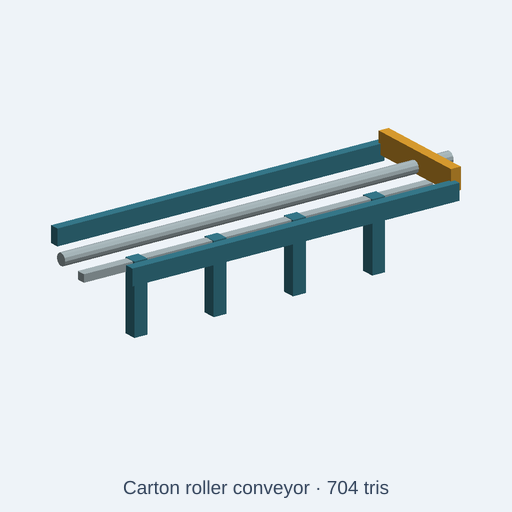
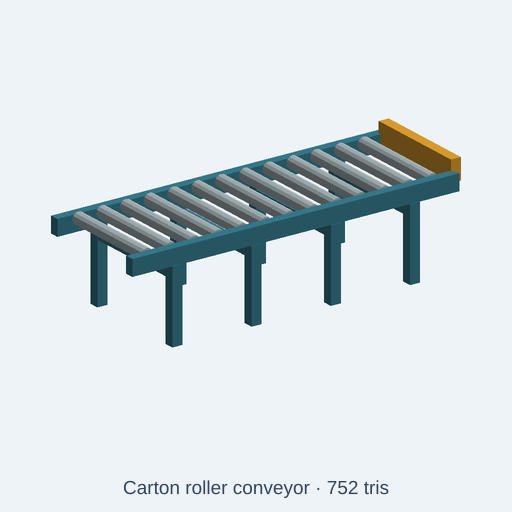
fix(catalog): run the carton conveyor rollers across the frame
The 13 rollers and 4 crossbars of beverage-bottling-line/carton-roller-conveyor
ran along X at y=0, so the preview showed two long rods, not a roller bed.
The legs stood in one centre row. The crossbars matched no finish rule and
fell through to stainless, but the side frames and legs they tie together
are powder-coated.

Rollers now span Y between the side frames (495 mm, 120 mm pitch). The
crossbars span Y under the frames and take the powder-coat finish. Eight
legs stand under the two side frames. The new test fails on the old source
(roller extent X 520 mm, Y 60 mm) and passes on the fix.

Changed region(s): [[0.0938, 0.2188, 0.9062, 0.6875], [0.6562, 0.9375, 0.7188, 0.9688]]

diff --git a/catalog/kits/beverage-bottling-line/carton-roller-conveyor.kcad.ts b/catalog/kits/beverage-bottling-line/carton-roller-conveyor.kcad.ts
@@ -32,38 +32,43 @@ presets({
   },
 });
 const boxPart = (x:number,y:number,z:number,w:number,d:number,h:number) => box(w,d,h,true).translate(x,y,z+h/2).scale(scale);
-const xCylinderPart = (x:number,y:number,z:number,length:number,r:number,n=10) => cylinder(length,r,n).rotateY(90).translate(x-length/2,y,z).scale(scale);
+// Rollers span the conveyor width (Y) between the two side frames; cartons travel along X.
+const yCylinderPart = (x:number,y:number,z:number,length:number,r:number,n=10) => cylinder(length,r,n).rotateX(-90).translate(x,y-length/2,z).scale(scale);
 
 const p = assembly("carton-roller-conveyor");
 const finishPart = (name: string, shape: ReturnType<typeof boxPart>) => {
   const component = name.toLowerCase();
   if (/operator|stop|emergency|beacon|signal|status|warning|access/i.test(component)) return shape.color(safetyPaint);
-  if (/base|leg|foot|frame|support|stand|control|housing|cabinet|motor|drive|beam|panel|hood|skid|mount|platform|guard|rail|post|lift|jacket/i.test(component)) return shape.color(powderCoat);
+  if (/base|leg|foot|frame|support|stand|control|housing|cabinet|motor|drive|beam|panel|hood|skid|mount|platform|guard|rail|post|lift|jacket|crossbar/i.test(component)) return shape.color(powderCoat);
   return shape.color(stainlessSteel);
 };
 p.part("side-frame-front", finishPart("side-frame-front", boxPart(0, -270, 360, 1650, 45, 80)));
 p.part("side-frame-back", finishPart("side-frame-back", boxPart(0, 270, 360, 1650, 45, 80)));
-p.part("roller-0", finishPart("roller-0", xCylinderPart(-720, 0, 420, 520, 30, 8)));
-p.part("roller-1", finishPart("roller-1", xCylinderPart(-600, 0, 420, 520, 30, 8)));
-p.part("roller-2", finishPart("roller-2", xCylinderPart(-480, 0, 420, 520, 30, 8)));
-p.part("roller-3", finishPart("roller-3", xCylinderPart(-360, 0, 420, 520, 30, 8)));
-p.part("roller-4", finishPart("roller-4", xCylinderPart(-240, 0, 420, 520, 30, 8)));
-p.part("roller-5", finishPart("roller-5", xCylinderPart(-120, 0, 420, 520, 30, 8)));
-p.part("roller-6", finishPart("roller-6", xCylinderPart(0, 0, 420, 520, 30, 8)));
-p.part("roller-7", finishPart("roller-7", xCylinderPart(120, 0, 420, 520, 30, 8)));
-p.part("roller-8", finishPart("roller-8", xCylinderPart(240, 0, 420, 520, 30, 8)));
-p.part("roller-9", finishPart("roller-9", xCylinderPart(360, 0, 420, 520, 30, 8)));
-p.part("roller-10", finishPart("roller-10", xCylinderPart(480, 0, 420, 520, 30, 8)));
-p.part("roller-11", finishPart("roller-11", xCylinderPart(600, 0, 420, 520, 30, 8)));
-p.part("roller-12", finishPart("roller-12", xCylinderPart(720, 0, 420, 520, 30, 8)));
-p.part("leg-0", finishPart("leg-0", boxPart(-600, 0, 0, 65, 65, 340)));
-p.part("leg-1", finishPart("leg-1", boxPart(-200, 0, 0, 65, 65, 340)));
-p.part("leg-2", finishPart("leg-2", boxPart(200, 0, 0, 65, 65, 340)));
-p.part("leg-3", finishPart("leg-3", boxPart(600, 0, 0, 65, 65, 340)));
-p.part("crossbar-0", finishPart("crossbar-0", boxPart(-600, 0, 300, 560, 45, 38)));
-p.part("crossbar-1", finishPart("crossbar-1", boxPart(-200, 0, 300, 560, 45, 38)));
-p.part("crossbar-2", finishPart("crossbar-2", boxPart(200, 0, 300, 560, 45, 38)));
-p.part("crossbar-3", finishPart("crossbar-3", boxPart(600, 0, 300, 560, 45, 38)));
+p.part("roller-0", finishPart("roller-0", yCylinderPart(-720, 0, 420, 495, 30, 8)));
+p.part("roller-1", finishPart("roller-1", yCylinderPart(-600, 0, 420, 495, 30, 8)));
+p.part("roller-2", finishPart("roller-2", yCylinderPart(-480, 0, 420, 495, 30, 8)));
+p.part("roller-3", finishPart("roller-3", yCylinderPart(-360, 0, 420, 495, 30, 8)));
+p.part("roller-4", finishPart("roller-4", yCylinderPart(-240, 0, 420, 495, 30, 8)));
+p.part("roller-5", finishPart("roller-5", yCylinderPart(-120, 0, 420, 495, 30, 8)));
+p.part("roller-6", finishPart("roller-6", yCylinderPart(0, 0, 420, 495, 30, 8)));
+p.part("roller-7", finishPart("roller-7", yCylinderPart(120, 0, 420, 495, 30, 8)));
+p.part("roller-8", finishPart("roller-8", yCylinderPart(240, 0, 420, 495, 30, 8)));
+p.part("roller-9", finishPart("roller-9", yCylinderPart(360, 0, 420, 495, 30, 8)));
+p.part("roller-10", finishPart("roller-10", yCylinderPart(480, 0, 420, 495, 30, 8)));
+p.part("roller-11", finishPart("roller-11", yCylinderPart(600, 0, 420, 495, 30, 8)));
+p.part("roller-12", finishPart("roller-12", yCylinderPart(720, 0, 420, 495, 30, 8)));
+p.part("leg-0", finishPart("leg-0", boxPart(-600, -270, 0, 50, 50, 360)));
+p.part("leg-1", finishPart("leg-1", boxPart(-600, 270, 0, 50, 50, 360)));
+p.part("leg-2", finishPart("leg-2", boxPart(-200, -270, 0, 50, 50, 360)));
+p.part("leg-3", finishPart("leg-3", boxPart(-200, 270, 0, 50, 50, 360)));
+p.part("leg-4", finishPart("leg-4", boxPart(200, -270, 0, 50, 50, 360)));
+p.part("leg-5", finishPart("leg-5", boxPart(200, 270, 0, 50, 50, 360)));
+p.part("leg-6", finishPart("leg-6", boxPart(600, -270, 0, 50, 50, 360)));
+p.part("leg-7", finishPart("leg-7", boxPart(600, 270, 0, 50, 50, 360)));
+p.part("crossbar-0", finishPart("crossbar-0", boxPart(-600, 0, 300, 45, 560, 38)));
+p.part("crossbar-1", finishPart("crossbar-1", boxPart(-200, 0, 300, 45, 560, 38)));
+p.part("crossbar-2", finishPart("crossbar-2", boxPart(200, 0, 300, 45, 560, 38)));
+p.part("crossbar-3", finishPart("crossbar-3", boxPart(600, 0, 300, 45, 560, 38)));
 p.part("end-stop", finishPart("end-stop", boxPart(830, 0, 390, 50, 520, 105)));
 
 return p.model();

diff --git a/tests/integration/catalog/cartonRollerConveyorFrameMaterial.test.ts b/tests/integration/catalog/cartonRollerConveyorFrameMaterial.test.ts
@@ -1,0 +1,75 @@
+// SPDX-License-Identifier: MIT
+// Copyright (c) 2026 Andrii Shylenko and kernelCAD contributors
+
+import { resolve } from 'node:path';
+import { NodeIO } from '@gltf-transform/core';
+import { beforeAll, describe, expect, it } from 'vitest';
+import { buildCatalogAssetWithGlb } from '../../../src/agent/catalog/buildCatalog';
+import { initOcct } from '../../../src/kernel/backends/occt/occtBackend';
+
+const repoRoot = resolve(import.meta.dirname, '../../..');
+const source = 'catalog/kits/beverage-bottling-line/carton-roller-conveyor.kcad.ts';
+
+beforeAll(async () => {
+  await initOcct();
+}, 120_000);
+
+describe('beverage-bottling-line/carton-roller-conveyor materials', () => {
+  it('runs the rollers across the frame and paints the crossbars with the frame', async () => {
+    const { asset, glb } = await buildCatalogAssetWithGlb(repoRoot, source);
+
+    expect(asset.stats.triangles).toBeLessThanOrEqual(asset.triangleBudget);
+    expect(asset.params.filter((param) => param.type === 'color').map((param) => param.name)).toEqual([
+      'stainlessSteel', 'powderCoat', 'safetyPaint',
+    ]);
+    expect(Object.keys(asset.presets)).toEqual(['sanitaryLine', 'legacyPlant']);
+
+    const document = await new NodeIO().readBinary(glb);
+    const nodes = document.getRoot().listNodes();
+    const colorsFor = (name: string) => {
+      const node = nodes.find((candidate) => candidate.getName() === name);
+      return node?.getMesh()?.listPrimitives().flatMap((primitive) => {
+        const vertexColors = primitive.getAttribute('COLOR_0');
+        if (vertexColors !== null) {
+          return Array.from({ length: vertexColors.getCount() }, (_, index) => {
+            const color = vertexColors.getElement(index, []);
+            return color.slice(0, 3).map((channel) =>
+              channel <= 0.0031308 ? 12.92 * channel : 1.055 * channel ** (1 / 2.4) - 0.055,
+            );
+          });
+        }
+        const material = primitive.getMaterial();
+        return material === null ? [] : [material.getBaseColorFactor().slice(0, 3)];
+      }) ?? [];
+    };
+    const extentFor = (name: string) => {
+      const node = nodes.find((candidate) => candidate.getName() === name);
+      const position = node?.getMesh()?.listPrimitives()[0]?.getAttribute('POSITION');
+      expect(position, `${name} should have a mesh`).toBeTruthy();
+      const min = position!.getMin([]);
+      const max = position!.getMax([]);
+      return max.map((value, index) => value - min[index]!);
+    };
+    const matches = (hex: string) => {
+      const expected = [1, 3, 5].map((shift) => parseInt(hex.slice(shift, shift + 2), 16) / 255);
+      return (color: number[]) => expected.every((channel, index) =>
+        Math.abs(channel - color[index]!) < 0.015,
+      );
+    };
+
+    for (const name of ['roller-0', 'roller-6', 'roller-12']) {
+      const [dx, dy] = extentFor(name);
+      expect(dy!, `${name} should span the conveyor width`).toBeGreaterThan(dx! * 4);
+      const roller = colorsFor(name);
+      expect(roller.length).toBeGreaterThan(0);
+      expect(roller.every(matches('#aebdc1')), `${name} should stay stainless`).toBe(true);
+    }
+    for (const name of ['crossbar-0', 'crossbar-3']) {
+      const [dx, dy] = extentFor(name);
+      expect(dy!, `${name} should tie the two side frames`).toBeGreaterThan(dx! * 4);
+      const crossbar = colorsFor(name);
+      expect(crossbar.length).toBeGreaterThan(0);
+      expect(crossbar.every(matches('#397e91')), `${name} should match the powder-coated frame`).toBe(true);
+    }
+  }, 120_000);
+});
